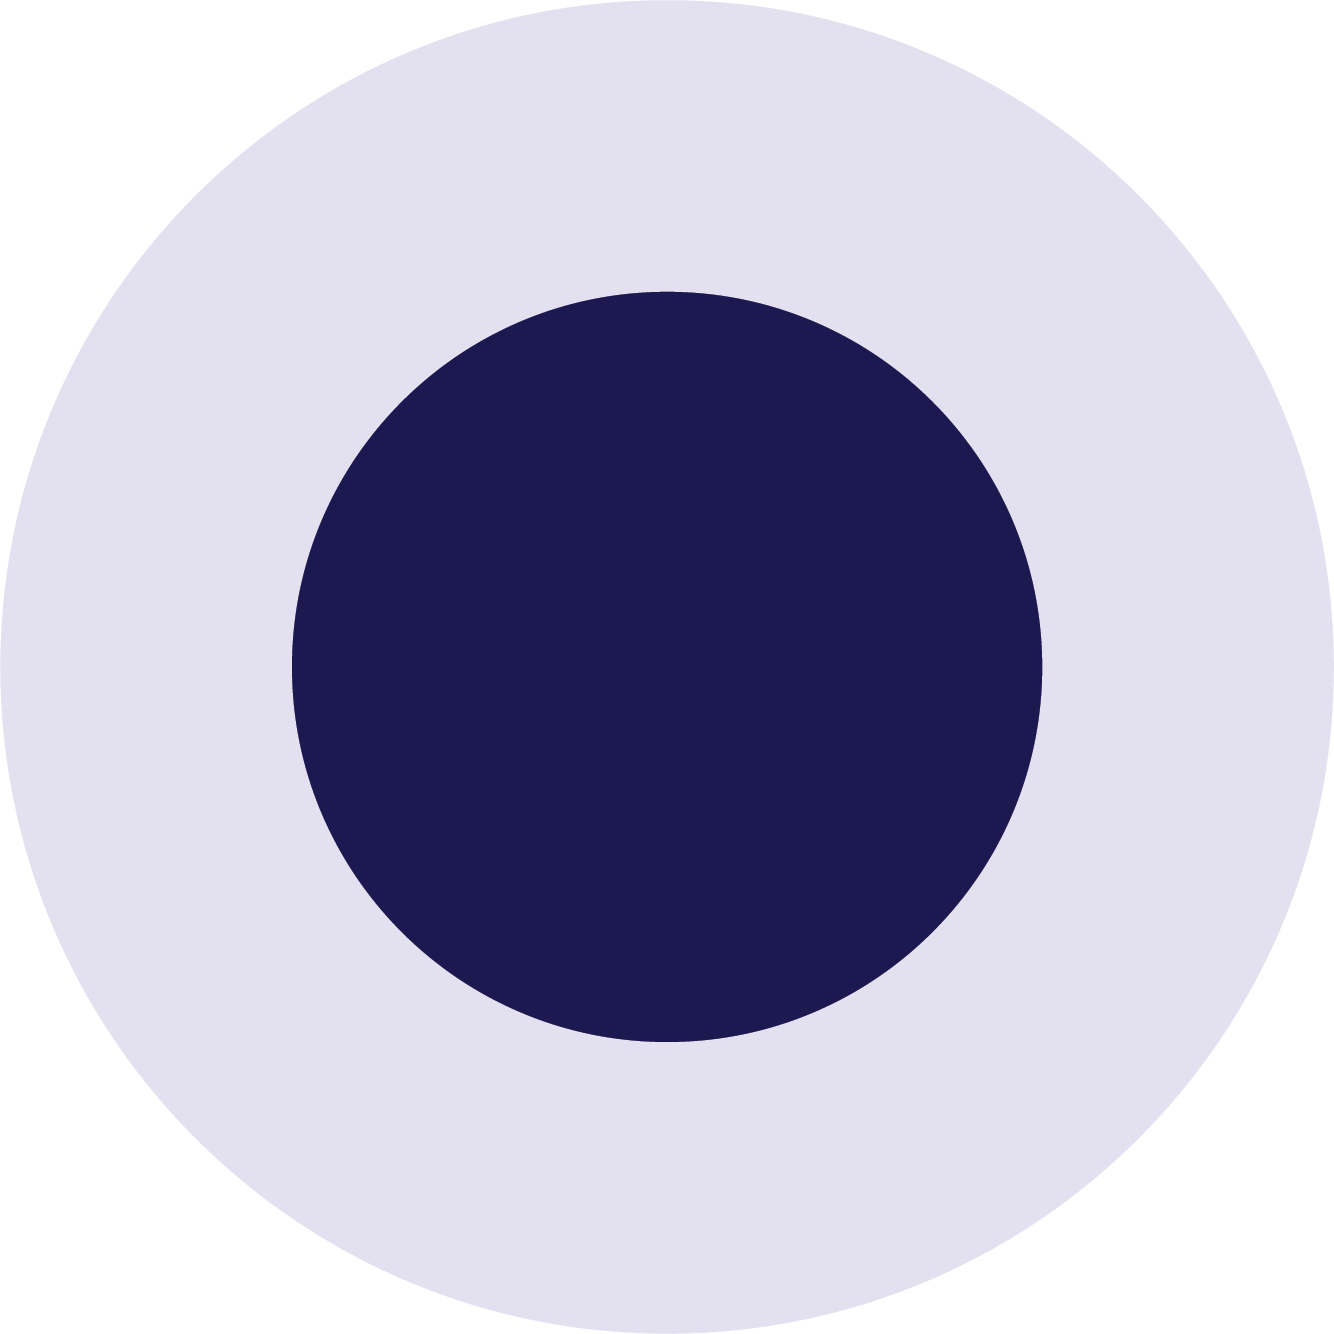
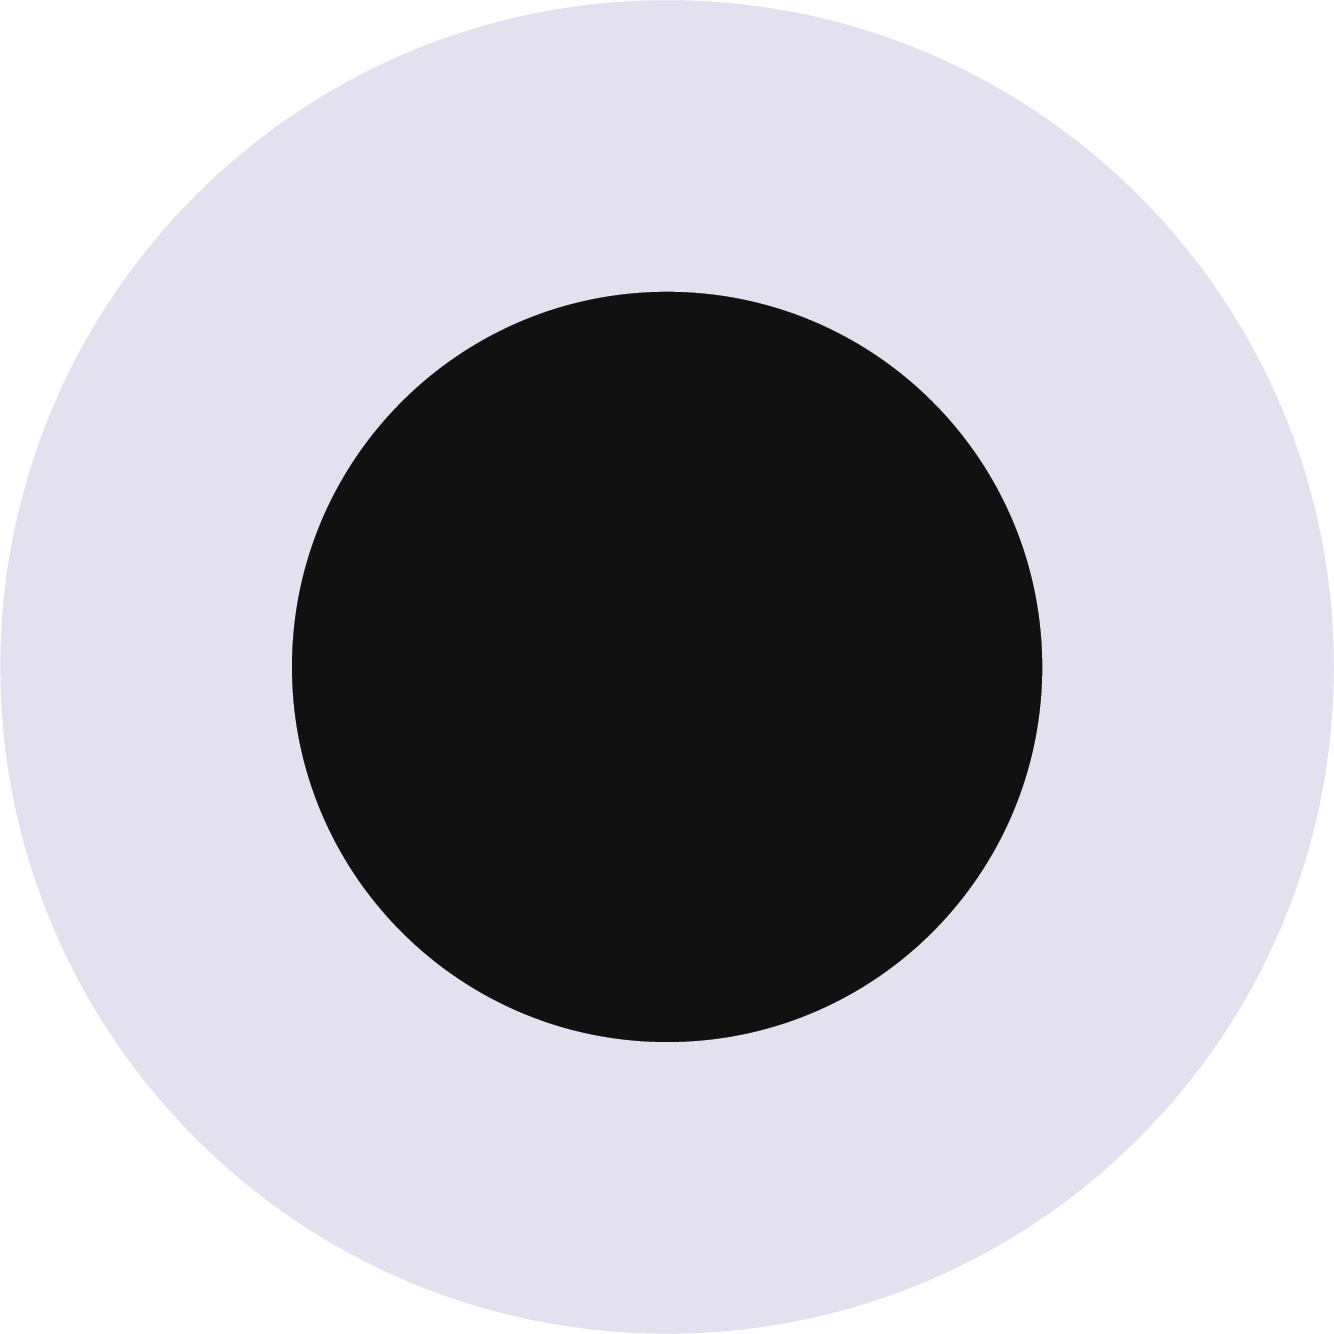
fourth commit

Changed region(s): [[0.2151, 0.2151, 0.7991, 0.7991]]

diff --git a/style/style.css b/style/style.css
@@ -1,8 +1,8 @@
 @import url('https://fonts.googleapis.com/css2?family=DM+Sans:ital,opsz,wght@0,9..40,100;0,9..40,200;0,9..40,300;0,9..40,400;0,9..40,500;0,9..40,600;0,9..40,700;0,9..40,800;0,9..40,900;0,9..40,1000;1,9..40,100;1,9..40,200;1,9..40,300;1,9..40,400;1,9..40,500;1,9..40,600;1,9..40,700;1,9..40,800;1,9..40,900;1,9..40,1000&display=swap');
 
 :root {
-    --colorSecondary: #07072B;
-    --colorPrimary: #E2E0F0;
+    --colorSecondary: #121212;
+    --colorPrimary: #FFF6F0;
 }
 
 * {
@@ -13,17 +13,22 @@
 
 }
 
+body {
+    background: var(--colorPrimary);
+}
+
 header {
     width: 100%;
     position: fixed;
-    background: white;
+    background: var(--colorPrimary);
+    z-index: 999;
 }
 
 header .navbar .container {
     display: flex;
     align-items: center;
     justify-content: space-between;
-    border-bottom: 1px solid black;
+    border-bottom: 1px solid var(--colorSecondary);
     padding: 10px 0px;
 }
 
@@ -42,8 +47,8 @@ header .navbar .container .menu ul li {
 
 header .navbar .container .menu ul li a {
     text-decoration: none;
-    color: black;
-    border: 1px solid black;
+    color: var(--colorSecondary);
+    border: 1px solid var(--colorSecondary);
     border-radius: 20px;
     padding: 2px 10px;
     transition: all 0.4s;
@@ -66,7 +71,7 @@ header .navbar .container .toggle .hamburger span:first-child {
     width: 30px;
     height: 3px;
     display: block;
-    background: black;
+    background: var(--colorSecondary);
     transition: all 0.2s ease-in-out;
     transition-delay: 0.2s;
 }
@@ -75,7 +80,7 @@ header .navbar .container .toggle .hamburger span:nth-child(2) {
     width: 20px;
     height: 3px;
     display: block;
-    background: black;
+    background: var(--colorSecondary);
     transition: all 0.2s ease-in-out;
     transition-delay: 0.2s;
 }
@@ -98,6 +103,64 @@ header .navbar .container nav ul li a:hover {
     color: var(--colorPrimary);
 }
 
+.jumbotron {
+    height: 90vh;
+    display: flex;
+    justify-content: space-between;
+    align-items: center;
+}
+
+.jumbotron .content article {
+    display: flex;
+    flex-direction: column;
+    gap: 10px;
+}
+
+.jumbotron .content article h1 {
+    font-weight: 300;
+    font-size: 32px;
+}
+
+.jumbotron .content article p {
+    font-size: 20px;
+    font-weight: 200;
+    opacity: 90%;
+    letter-spacing: 2px;
+    padding: 5px 8px;
+    width: fit-content;
+    border-radius: 5px;
+    background: #d9d9d9;
+}
+
+.jumbotron .content article button {
+    background: var(--colorPrimary);
+    border: 1px solid var(--colorSecondary);
+    padding: 5px 15px;
+    border-radius: 50px;
+    font-size: 20px;
+    margin-top: 50px;
+    width: fit-content;
+    cursor: pointer;
+    transition: all 0.4s ease-in-out;
+}
+
+.jumbotron .content article button:hover {
+    background: var(--colorSecondary);
+    border: 1px solid var(--colorSecondary);
+    color: var(--colorPrimary);
+}
+
+.jumbotron aside {
+    height: 300px;
+    width: 500px;
+    overflow: clip;
+}
+
+.jumbotron aside .position {
+    transform: translate(-292px, -656px) scale(0.6);
+    filter: grayscale(80%) contrast(80%);
+}
+
 @media screen and (max-width: 450px) {
     
     header .navbar {
@@ -117,7 +180,7 @@ header .navbar .container nav ul li a:hover {
         position: absolute;
         right: 10px;
         top: 91px;
-        background: white;
+        background: var(--colorPrimary);
         padding: 30px 20px;
         border-radius: 10px;
         border: 1px solid black;
@@ -129,6 +192,35 @@ header .navbar .container nav ul li a:hover {
         gap: 20px;
     }
 
+    main {
+        padding: 81px 10px 0px 10px;
+    }
+
+    .jumbotron {
+        flex-direction: column;
+        align-items: start;
+    }
+
+    .jumbotron .content article h1 {
+        font-weight: 300;
+        font-size: 25px;
+        padding-top: 30px;
+    }
+
+    .jumbotron .content article p, .jumbotron .content article button {
+        font-size: 16px;
+    }
+
+    .jumbotron aside {
+        height: 250px;
+        width: 100%;
+        overflow: clip;
+    }
+
+    .jumbotron aside .position {
+        transform: translate(-340px, -656px) scale(0.6);
+    }
+
 }
 
 @media screen and (min-width: 550px) {
@@ -136,6 +228,22 @@ header .navbar .container nav ul li a:hover {
     header .navbar {
         padding: 0px 50px;
         font-size: 16px;
+    }
+
+    main {
+        padding: 81px 50px 0px 50px;
+    }
+
+    .jumbotron .content article h1 {
+        font-size: 25px;
+    }
+
+    .jumbotron .content article p, .jumbotron .content article button {
+        font-size: 16px;
+    }
+
+    .jumbotron aside .position {
+        transform: translate(-350px, -656px) scale(0.6);
     }
 
 }
@@ -151,6 +259,10 @@ header .navbar .container nav ul li a:hover {
         display: none;
     }
 
+    main {
+        padding: 81px 100px 0px 100px;
+    }
+
 }
 
 @media screen and (min-width: 1000px) {
@@ -164,6 +276,10 @@ header .navbar .container nav ul li a:hover {
         display: none;
     }
 
+    main {
+        padding: 81px 150px 0px 150px;
+    }
+
 }
 
 @media screen and (min-width: 1440px) {
@@ -175,6 +291,10 @@ header .navbar .container nav ul li a:hover {
 
     header .navbar .container .toggle {
         display: none;
+    }
+
+    main {
+        padding: 81px 200px 0px 200px;
     }
 
 }

diff --git a/index.html b/index.html
@@ -8,7 +8,7 @@
     <link rel="icon" href="asset/icon.png">
     <title>YP Design</title>
     <style>
-        
+       
     </style>
 </head>
 
@@ -27,7 +27,7 @@
                         <span></span>
                     </button>
                 </div>
-                <nav id="hamburger-menu" class="menu">
+                <nav id="hamburger-menu" class="menu hidden">
                     <ul>
                         <li>
                             <a href="#about">About Me</a>
@@ -43,9 +43,25 @@
 
     <!-- Main Section -->
     <main>
-        <h1><i>Design</i> by Mochammad Yusuf Pratama</h1>
+
+        <!-- Jumbotron Section -->
+        <section class="jumbotron">
+            <div class="content">
+                <article>
+                    <h1>YP Design <br>by Mochammad Yusuf Pratama</h1>
+                    <p>./Indonesia/Surabaya</p>
+                    <button>Know More</button>
+                </article>
+            </div>
+            <aside>
+                <img src="asset/pict_2.jpg" alt="" srcset="" class="position">
+            </aside>
+        </section>
+        
     </main>
+
     <!-- Footer Section -->
+    <footer></footer>
 
     <script src="script/script.js"></script>
 
